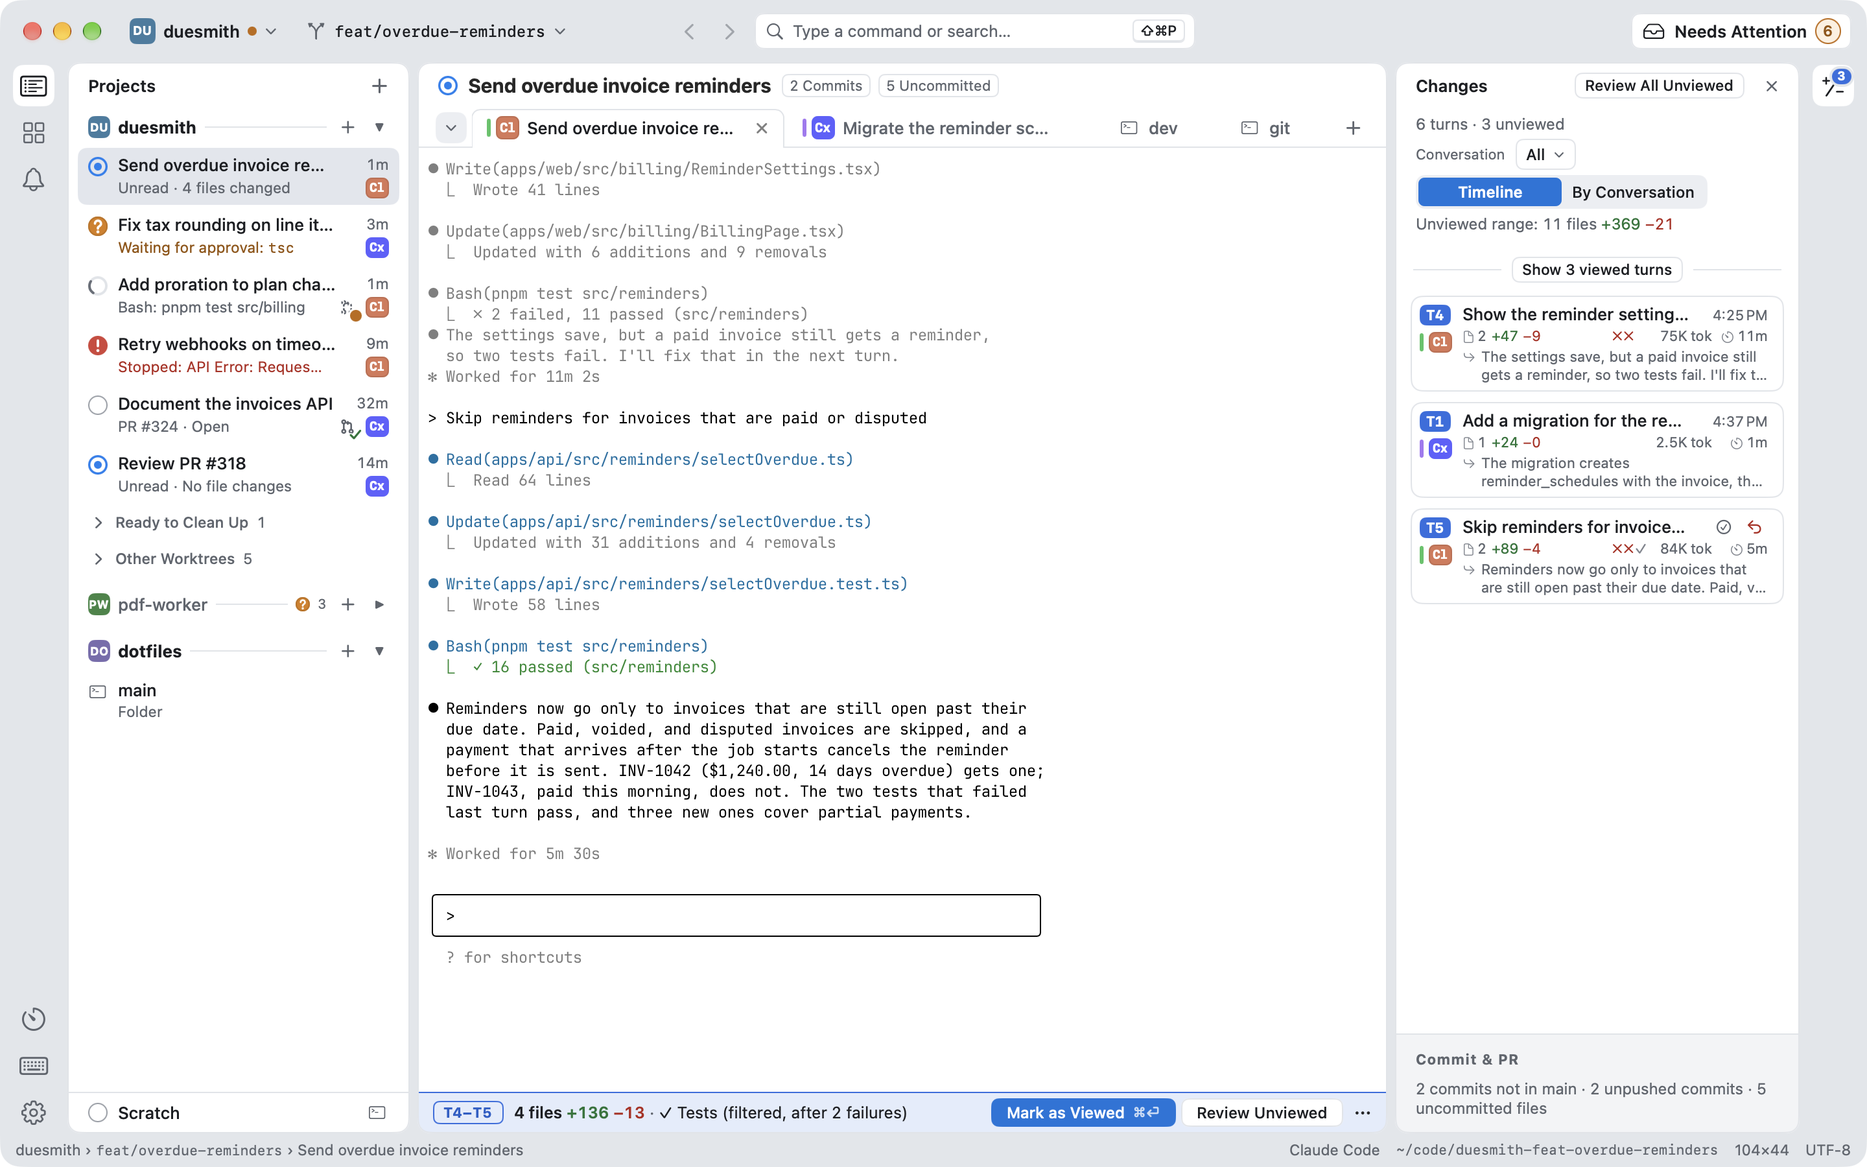
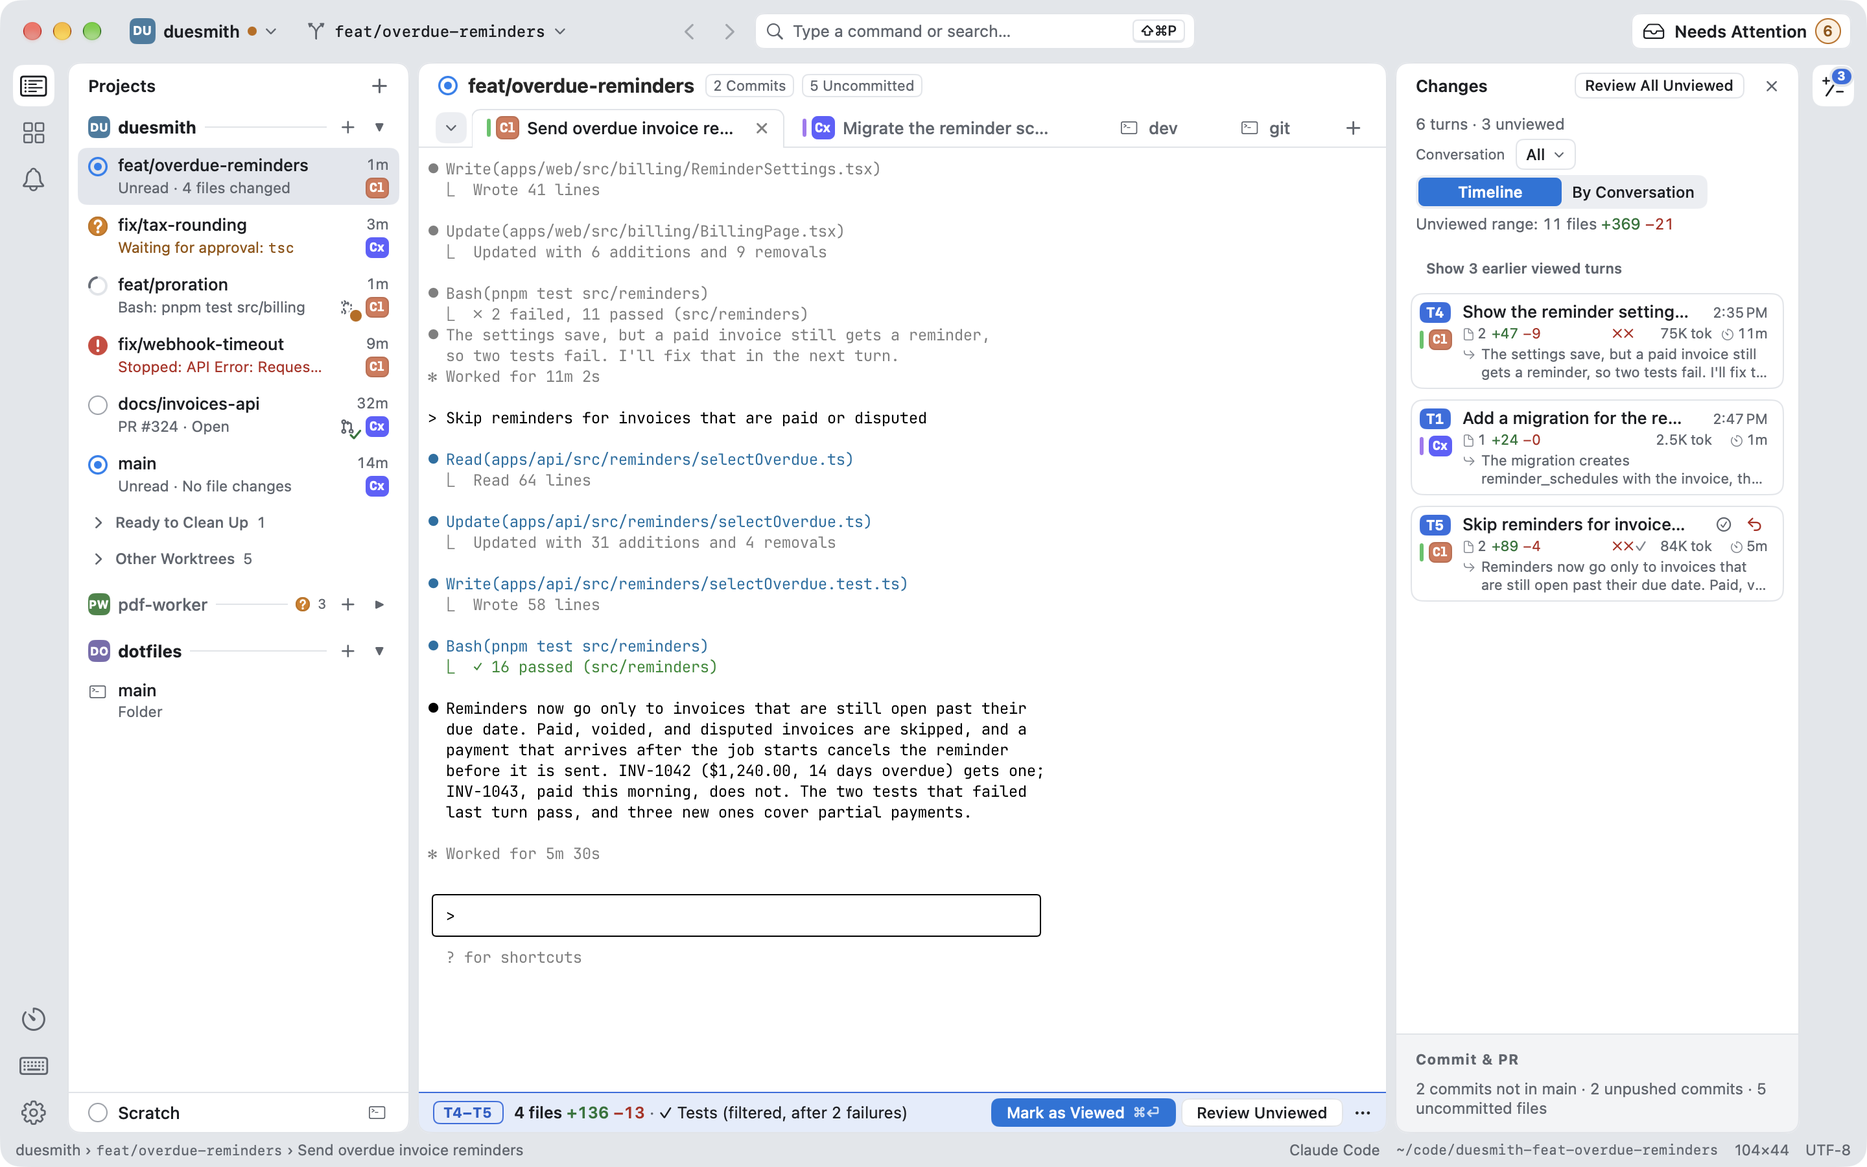
feat(supervision): replace the Changes panel's viewed-turns button with a plain line that opens once (#185)

diff --git a/Limpid/UI/Supervision/Changes/ChangesPanelView.swift b/Limpid/UI/Supervision/Changes/ChangesPanelView.swift
@@ -392,7 +392,8 @@ private struct ChangesTurnList: View {
     @Environment(ProjectWindowState.self) private var window
     @Environment(\.locale) private var locale
     @Environment(\.accessibilityReduceMotion) private var reduceMotion
-    /// This is true once the person opened the fold. The list folds again
+    /// This is true once the person opened the fold, which then leaves
+    /// the list: there is no line to fold it again. The list folds again
     /// as it is drawn anew (another worktree, which the panel gives a list
     /// of its own, the other grouping chosen, or the panel opened again).
     @State private var isUnfolded = false
@@ -401,6 +402,10 @@ private struct ChangesTurnList: View {
     /// are reset as the list is drawn anew.
     @State private var collapsedSections: Set<ConversationKey> = []
     @State private var unfoldedSections: Set<ConversationKey> = []
+    /// The card that takes the keyboard and VoiceOver as it appears: the
+    /// first a fold opened from the keyboard or VoiceOver showed, since the
+    /// fold's line, which had them, leaves the list. Cleared once taken.
+    @State private var focusOnAppear: TurnID?
 
     private typealias Layout = LimpidLayout.Supervision
 
@@ -445,18 +450,12 @@ private struct ChangesTurnList: View {
                     LazyVStack(alignment: .leading, spacing: Layout.turnCardSpacing) {
                         if let sections = list.sections {
                             ForEach(sections) { section in
-                                ChangesTurnSection(
-                                    section: section,
+                                sectionRows(
+                                    section,
                                     isFirst: section.id == sections.first?.id,
-                                    isCollapsed: collapsedSections.contains(section.id),
-                                    isUnfolded: unfoldedSections.contains(section.id),
                                     hidden: hidden,
                                     shownInReview: shownInReview,
-                                    offersShowTab: withTab.contains(section.id),
-                                    conversations: list.conversations,
-                                    state: state,
-                                    toggleCollapse: { toggle(section.id, in: $collapsedSections) },
-                                    toggleFold: { toggle(section.id, in: $unfoldedSections) }
+                                    withTab: withTab
                                 )
                             }
                         } else {
@@ -507,13 +506,41 @@ private struct ChangesTurnList: View {
         let restore: UUID?
     }
 
+    /// One conversation's section of the list grouped by conversation.
+    private func sectionRows(
+        _ section: ChangesPanelModel.Section,
+        isFirst: Bool,
+        hidden: Set<TurnID>,
+        shownInReview: Set<TurnID>,
+        withTab: Set<ConversationKey>
+    ) -> some View {
+        ChangesTurnSection(
+            section: section,
+            isFirst: isFirst,
+            isCollapsed: collapsedSections.contains(section.id),
+            hidden: hidden,
+            shownInReview: shownInReview,
+            offersShowTab: withTab.contains(section.id),
+            conversations: list.conversations,
+            state: state,
+            focusOnAppear: focusOnAppear,
+            tookFocus: { focusOnAppear = nil },
+            toggleCollapse: { toggle(section.id, in: $collapsedSections) },
+            openFold: { hadFocus in
+                open(revealing: section.rows.first?.id, hadFocus: hadFocus) {
+                    _ = unfoldedSections.insert(section.id)
+                }
+            }
+        )
+    }
+
     /// The timeline's fold, its cards, and its line.
     @ViewBuilder
     private func timelineRows(hidden: Set<TurnID>, shownInReview: Set<TurnID>, withTab: Set<ConversationKey>) -> some View {
-        if let fold = list.fold {
-            ChangesFoldLine(title: ChangesPanelText.fold(fold, isUnfolded: isUnfolded, locale: locale)) {
-                withAnimation(reduceMotion ? nil : LimpidMotion.changesFold) {
-                    isUnfolded.toggle()
+        if let fold = ChangesPanelModel.foldLine(list.fold, rows: list.rows, hidden: hidden) {
+            ChangesFoldLine(title: ChangesPanelText.fold(fold, locale: locale)) { hadFocus in
+                open(revealing: list.rows.first?.id, hadFocus: hadFocus) {
+                    isUnfolded = true
                 }
             }
         }
@@ -525,7 +552,9 @@ private struct ChangesTurnList: View {
                     isShownInReview: shownInReview.contains(row.id),
                     offersShowTab: withTab.contains(row.turn.conversation),
                     showsConversation: true,
-                    state: state
+                    state: state,
+                    takesFocus: focusOnAppear == row.id,
+                    tookFocus: { focusOnAppear = nil }
                 )
                 .id(row.id)
             }
@@ -533,8 +562,18 @@ private struct ChangesTurnList: View {
         ViewedLineRow(line: list.line, state: state)
     }
 
-    /// Opens or closes a section, or its fold, as the timeline's fold
-    /// opens and closes.
+    /// Opens a fold (`unfold`), and where its line had the keyboard or
+    /// VoiceOver, hands them to the first card it shows (`revealing`).
+    private func open(revealing first: TurnID?, hadFocus: Bool, unfold: () -> Void) {
+        if hadFocus {
+            focusOnAppear = first
+        }
+        withAnimation(reduceMotion ? nil : LimpidMotion.changesFold) {
+            unfold()
+        }
+    }
+
+    /// Opens or closes a section, animated as a fold opening is.
     private func toggle(_ conversation: ConversationKey, in set: Binding<Set<ConversationKey>>) {
         withAnimation(reduceMotion ? nil : LimpidMotion.changesFold) {
             if set.wrappedValue.contains(conversation) {
@@ -626,30 +665,49 @@ struct ViewedLineRow: View {
 }
 
 /// The fold's line over the viewed rows at the top of the list: "Show 12
-/// viewed turns", between two rules, as the viewed line reads, and "Hide
-/// viewed turns" once they are shown. The words are a compact secondary
-/// button, as the viewed line's "Unmark as Viewed" is, so the two lines
-/// read as one kind.
+/// earlier viewed turns", the cards it holds coming in its place, in words
+/// alone, left-aligned and without an edge, starting where the cards' turn
+/// numbers do. No chevron: under a section's heading one pointed against
+/// the heading's own and read as a pair. The viewed line keeps the list's
+/// one edged button, at its right end; a centered button here read as the
+/// same kind of row with its button in another place. Pressing it opens the fold and the line
+/// leaves the list; nothing folds the cards again until the list is drawn
+/// anew, as a chat's earlier messages stay once loaded.
 struct ChangesFoldLine: View {
     let title: String
-    let toggle: () -> Void
+    /// Opens the fold, told whether the line had the keyboard or VoiceOver,
+    /// which the first card shown then takes.
+    let open: (_ hadFocus: Bool) -> Void
+    @State private var isHovering = false
+    @FocusState private var isFocused: Bool
+    @AccessibilityFocusState private var isSpokenFocused: Bool
+
+    private typealias Layout = LimpidLayout.Supervision
 
     var body: some View {
-        HStack(spacing: LimpidLayout.Supervision.viewedLineWordSpacing) {
-            rule
-            Button(title, action: toggle)
-                .buttonStyle(.supervisionSecondary(size: .compact))
-                .accessibilityLabel(Text(verbatim: title))
-            rule
+        Button {
+            open(isFocused || isSpokenFocused)
+        } label: {
+            HStack(spacing: 0) {
+                Text(verbatim: title)
+                    .font(.supervision(.caption, weight: .semibold))
+                    .lineLimit(1)
+                Spacer(minLength: 0)
+            }
+            .foregroundStyle((isHovering ? SupervisionTokens.text : SupervisionTokens.muted).color)
+            .padding(.horizontal, Layout.turnCardInsets.leading)
+            .padding(.vertical, Layout.spaceXS)
+            .background(
+                RoundedRectangle(cornerRadius: Layout.smallControlCornerRadius)
+                    .fill(isHovering ? SupervisionTokens.hover.color : .clear)
+            )
+            .contentShape(Rectangle())
         }
-        .padding(LimpidLayout.Supervision.viewedLineInset)
-    }
-
-    private var rule: some View {
-        SupervisionTokens.line.color
-            .frame(height: 1)
-            .frame(minWidth: LimpidLayout.Supervision.viewedLineRuleMinWidth, maxWidth: .infinity)
-            .accessibilityHidden(true)
+        .buttonStyle(.plain)
+        .focused($isFocused)
+        .accessibilityFocused($isSpokenFocused)
+        .onHover { isHovering = $0 }
+        .accessibilityLabel(Text(verbatim: title))
     }
 }
 

diff --git a/Limpid/UI/Supervision/Changes/ChangesTurnRow.swift b/Limpid/UI/Supervision/Changes/ChangesTurnRow.swift
@@ -30,6 +30,13 @@ struct ChangesTurnRow: View {
     /// them. The card still marks its tab under the pointer.
     let showsConversation: Bool
     let state: AppState
+    /// Whether the card takes the keyboard and VoiceOver as it appears: the
+    /// first card a fold opened from the keyboard or VoiceOver showed, whose
+    /// line had them and has left the list. `tookFocus` tells the list it
+    /// was taken, so the card does not take it again as it scrolls back
+    /// into view.
+    let takesFocus: Bool
+    let tookFocus: () -> Void
     @Environment(ProjectWindowState.self) private var window
     @Environment(\.locale) private var locale
     @Environment(\.supervisionSurfaceOpacity) private var surfaceOpacity
@@ -40,6 +47,7 @@ struct ChangesTurnRow: View {
     /// modifier's (`conversationHover`).
     @State private var isHovering = false
     @FocusState private var focus: TurnCardFocus?
+    @AccessibilityFocusState private var isSpokenFocused: Bool
 
     private typealias Layout = LimpidLayout.Supervision
 
@@ -120,6 +128,16 @@ struct ChangesTurnRow: View {
         }
         .modifier(TurnCardMenu(isShown: offersShowTab || !moves.isEmpty) { menu })
         .accessibilityElement(children: .contain)
+        .onAppear {
+            guard takesFocus else { return }
+            tookFocus()
+            // Once the fold's line, which held the keys, has left the
+            // list: asked at once, the request is lost.
+            KeyboardHandoff.afterResponderSettles {
+                focus = .card
+                isSpokenFocused = true
+            }
+        }
     }
 
     /// A turn that opens in the review is a button; one that cannot (an
@@ -142,6 +160,7 @@ struct ChangesTurnRow: View {
             }
             .buttonStyle(.plain)
             .focused($focus, equals: .card)
+            .accessibilityFocused($isSpokenFocused)
             .help(help)
             .accessibilityLabel(spoken)
             .accessibilityHint(hint)
@@ -155,6 +174,7 @@ struct ChangesTurnRow: View {
                 .focused($focus, equals: .card)
                 .help(help)
                 .accessibilityElement(children: .ignore)
+                .accessibilityFocused($isSpokenFocused)
                 .accessibilityLabel(spoken)
                 .accessibilityHint(hint)
                 .accessibilityActions { moveActions }

diff --git a/Limpid/UI/Supervision/Changes/ChangesTurnSection.swift b/Limpid/UI/Supervision/Changes/ChangesTurnSection.swift
@@ -12,7 +12,6 @@ struct ChangesTurnSection: View {
     let section: ChangesPanelModel.Section
     let isFirst: Bool
     let isCollapsed: Bool
-    let isUnfolded: Bool
     /// The rows the list hides (`ChangesPanelModel.hiddenRows(sections:collapsed:unfolded:shownInReview:)`).
     let hidden: Set<TurnID>
     let shownInReview: Set<TurnID>
@@ -22,8 +21,12 @@ struct ChangesTurnSection: View {
     /// The worktree's conversations, for a move's toast.
     let conversations: [ConversationChoice]
     let state: AppState
+    /// The card that takes the keyboard and VoiceOver as it appears
+    /// (`ChangesTurnRow.takesFocus`), and what clears it once taken.
+    let focusOnAppear: TurnID?
+    let tookFocus: () -> Void
     let toggleCollapse: () -> Void
-    let toggleFold: () -> Void
+    let openFold: (_ hadFocus: Bool) -> Void
     @Environment(\.locale) private var locale
 
     private typealias Layout = LimpidLayout.Supervision
@@ -38,8 +41,8 @@ struct ChangesTurnSection: View {
         )
         .padding(.top, isFirst ? 0 : Layout.changesSectionGap)
         if !isCollapsed {
-            if let fold = section.fold {
-                ChangesFoldLine(title: ChangesPanelText.fold(fold, isUnfolded: isUnfolded, locale: locale), toggle: toggleFold)
+            if let fold = ChangesPanelModel.foldLine(section.fold, rows: section.rows, hidden: hidden) {
+                ChangesFoldLine(title: ChangesPanelText.fold(fold, locale: locale), open: openFold)
                     .conversationHoverDimming(section.id)
             }
             ForEach(section.rows) { row in
@@ -50,7 +53,9 @@ struct ChangesTurnSection: View {
                         isShownInReview: shownInReview.contains(row.id),
                         offersShowTab: offersShowTab,
                         showsConversation: false,
-                        state: state
+                        state: state,
+                        takesFocus: focusOnAppear == row.id,
+                        tookFocus: tookFocus
                     )
                     .id(row.id)
                 }

diff --git a/LimpidTests/ChangesPanelTextTests.swift b/LimpidTests/ChangesPanelTextTests.swift
@@ -277,11 +277,9 @@ struct ChangesPanelTextTests {
     @Test func theFoldAndTheMoves_sayWhatTheyDo() {
         let fold = ChangesPanelModel.Fold(count: 12)
 
-        #expect(ChangesPanelText.fold(fold, isUnfolded: false, locale: Self.english) == "Show 12 viewed turns")
-        #expect(ChangesPanelText.fold(ChangesPanelModel.Fold(count: 1), isUnfolded: false, locale: Self.english) == "Show 1 viewed turn")
-        #expect(ChangesPanelText.fold(fold, isUnfolded: false, locale: Self.japanese) == "確認済み 12 ターンを表示")
-        #expect(ChangesPanelText.fold(fold, isUnfolded: true, locale: Self.english) == "Hide viewed turns")
-        #expect(ChangesPanelText.fold(fold, isUnfolded: true, locale: Self.japanese) == "確認済みのターンを非表示にする")
+        #expect(ChangesPanelText.fold(fold, locale: Self.english) == "Show 12 earlier viewed turns")
+        #expect(ChangesPanelText.fold(ChangesPanelModel.Fold(count: 1), locale: Self.english) == "Show 1 earlier viewed turn")
+        #expect(ChangesPanelText.fold(fold, locale: Self.japanese) == "前の確認済み 12 ターンを表示")
         #expect(ChangesPanelText.moveAcrossHelp(.markViewedThrough, locale: Self.japanese) == "ほかの会話の、このターンまでに終了したターンも確認済みにします")
         #expect(ChangesPanelText.moveAcrossHelp(.markViewedThrough, locale: Self.english)
             == "Also marks the other conversations’ turns that ended by the time this one did as viewed")

diff --git a/LimpidTests/ChangesPanelMarkTests.swift b/LimpidTests/ChangesPanelMarkTests.swift
@@ -138,6 +138,25 @@ struct ChangesPanelMarkTests {
             "every row, hidden ones too, would take a place no view can scroll to"
         )
     }
+
+    /// The fold's line shows only while the fold hides its rows: once
+    /// opened it leaves the list, and while the review reads a row it holds
+    /// it is gone too, since the rows are already shown.
+    @Test func theFoldsLine_showsOnlyWhileItHidesItsRows() throws {
+        let turns = try (1...4).map { try TurnSummaryFixture.timed($0, start: $0 * 100, end: $0 * 100 + 10) }
+        let viewed = Panel.line(through: turns[2], at: Date(), markID: nil, sequence: nil).line
+        let list = try Self.list(turns, lines: [viewed])
+        let fold = try #require(list.fold)
+        func line(isUnfolded: Bool, shownInReview: Set<TurnID>) -> ChangesPanelModel.Fold? {
+            let hidden = ChangesPanelModel.hiddenRows(fold: fold, isUnfolded: isUnfolded, shownInReview: shownInReview, rows: list.rows)
+            return ChangesPanelModel.foldLine(fold, rows: list.rows, hidden: hidden)
+        }
+
+        #expect(line(isUnfolded: false, shownInReview: []) == fold)
+        #expect(line(isUnfolded: true, shownInReview: []) == nil, "opened: the line has left the list")
+        #expect(line(isUnfolded: false, shownInReview: [turns[1].turnID]) == nil, "the review reads T2, so its rows are shown")
+        #expect(ChangesPanelModel.foldLine(nil, rows: list.rows, hidden: []) == nil)
+    }
 }
 
 extension ChangesPanelMarkTests {

diff --git a/Limpid/Presentation/Changes/ChangesPanelModel.swift b/Limpid/Presentation/Changes/ChangesPanelModel.swift
@@ -260,7 +260,7 @@ enum ChangesPanelModel {
     }
 
     /// The viewed rows at the top of the list, folded into one line ("Show
-    /// 12 viewed turns"): a long timeline is mostly history.
+    /// 12 earlier viewed turns"): a long timeline is mostly history.
     struct Fold: Equatable, Sendable {
         /// How many rows, from the first, the fold holds.
         let count: Int
@@ -530,6 +530,18 @@ enum ChangesPanelModel {
     static func fold(_ rows: [Row]) -> Fold? {
         let count = rows.dropLast().prefix { $0.isViewed }.count
         return count >= 2 ? Fold(count: count) : nil
+    }
+
+    /// The fold as its line offers it: only while it hides its rows. Once
+    /// opened the line leaves the list, and while the review reads a row it
+    /// holds the rows stay shown, where a line offering to show them would
+    /// be wrong. `hidden` is what the list hides
+    /// (`hiddenRows(fold:isUnfolded:shownInReview:rows:)`); a closed
+    /// section hides its rows too, and draws no line, so its caller asks
+    /// only for an open one.
+    static func foldLine(_ fold: Fold?, rows: [Row], hidden: Set<TurnID>) -> Fold? {
+        guard let fold, let first = rows.first, hidden.contains(first.id) else { return nil }
+        return fold
     }
 
     /// The rows the fold hides: those it holds, until the person opens

diff --git a/Limpid/Presentation/Changes/ChangesPanelText.swift b/Limpid/Presentation/Changes/ChangesPanelText.swift
@@ -502,19 +502,13 @@ enum ChangesPanelText {
         )
     }
 
-    /// "Show 12 viewed turns": the fold's line over the viewed rows at the
-    /// top of the list, and "Hide viewed turns" once they are shown.
-    static func fold(_ fold: ChangesPanelModel.Fold, isUnfolded: Bool, locale: Locale) -> String {
-        if isUnfolded {
-            return LocalizedStringResource(
-                "Hide viewed turns",
-                comment: "Changes panel: folds the viewed turns at the top of the list again"
-            )
-            .resolved(in: locale)
-        }
-        return LocalizedStringResource(
-            "Show \(fold.count) viewed turns",
-            comment: "Changes panel: the viewed turns at the top of the list, folded; argument: how many"
+    /// "Show 12 earlier viewed turns": the fold's line over the viewed rows
+    /// at the top of the list. Once they are shown the line is gone, so it
+    /// has no other words.
+    static func fold(_ fold: ChangesPanelModel.Fold, locale: Locale) -> String {
+        LocalizedStringResource(
+            "Show \(fold.count) earlier viewed turns",
+            comment: "Changes panel: the viewed turns at the top of the list, folded above this line; argument: how many"
         ).resolved(in: locale)
     }
 

diff --git a/docs/user-guide.md b/docs/user-guide.md
@@ -163,6 +163,10 @@ timeline, with the unviewed count and range and a **Conversation** filter.
   number ("#2") when the conversation's name carries one.
 - An unviewed turn's number ("T7") stands in a blue pill; a viewed turn's
   number is gray. The card open in the review is ringed in blue.
+- The viewed turns at the top of the list fold into one line, **Show 12
+  earlier viewed turns** (in each section, by conversation). Click it and
+  the cards come back in its place; they fold again when you switch
+  worktrees, change the grouping, or reopen the panel.
 - A card's moves stand where its time is: **Mark as Viewed up to Here**
   (**Mark as Unviewed from Here** on a viewed turn) and **Restore Code to
   Before This Turn…**. They show on the last card that has them (in each
